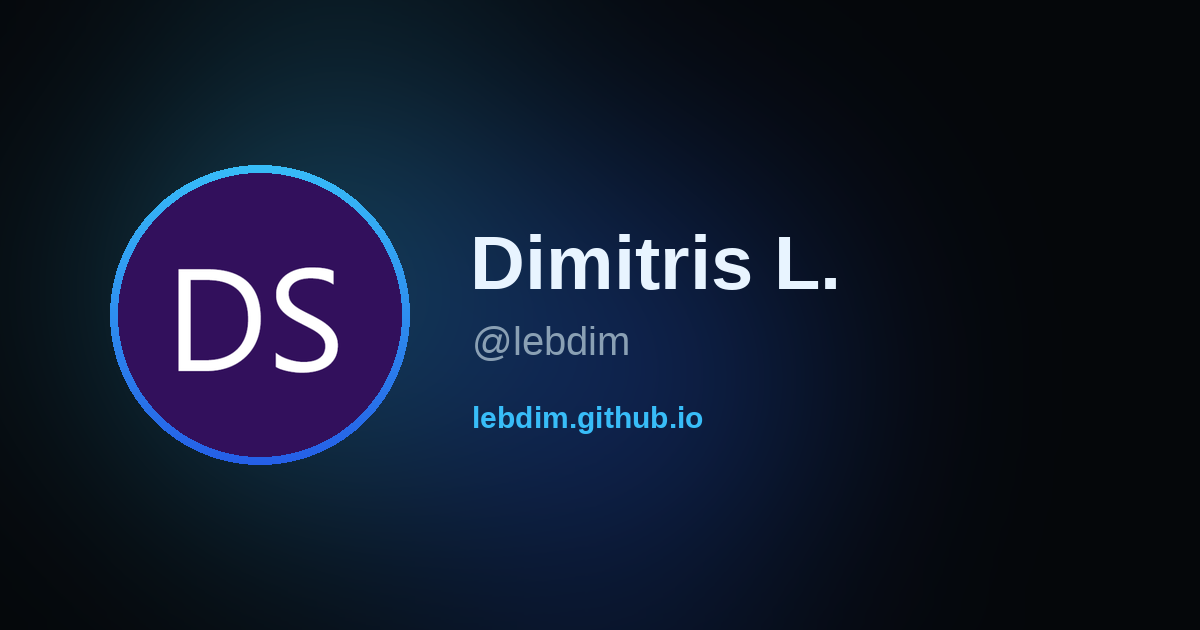
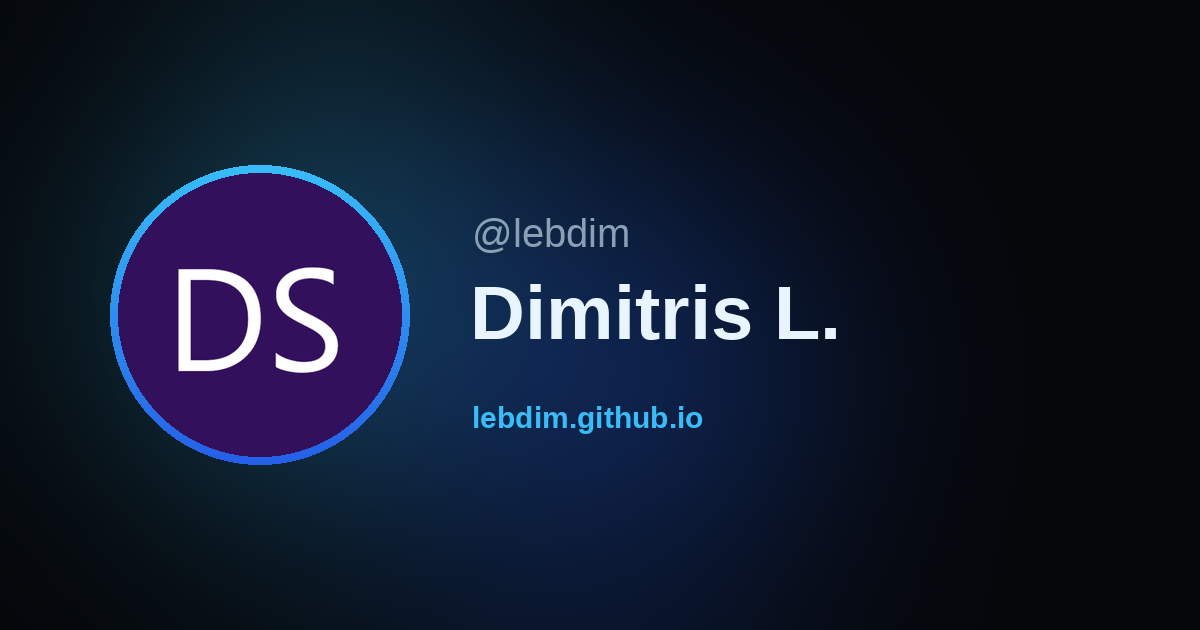
update page

Changed region(s): [[0.37, 0.3317, 0.7092, 0.573]]

diff --git a/index.html b/index.html
@@ -19,8 +19,8 @@
 <meta property="og:url" content="https://lebdim.github.io/">
 <meta property="og:locale" content="en_US">
 <meta property="profile:username" content="lebdim">
-<meta property="og:image" content="https://lebdim.github.io/og.png">
-<meta property="og:image:secure_url" content="https://lebdim.github.io/og.png">
+<meta property="og:image" content="https://lebdim.github.io/og.png?v=babc8d3623">
+<meta property="og:image:secure_url" content="https://lebdim.github.io/og.png?v=babc8d3623">
 <meta property="og:image:type" content="image/png">
 <meta property="og:image:width" content="1200">
 <meta property="og:image:height" content="630">
@@ -28,7 +28,7 @@
 <meta name="twitter:card" content="summary_large_image">
 <meta name="twitter:title" content="Dimitris L. (@lebdim)">
 <meta name="twitter:description" content="Software Engineer &amp; Automation Enthusiast">
-<meta name="twitter:image" content="https://lebdim.github.io/og.png">
+<meta name="twitter:image" content="https://lebdim.github.io/og.png?v=babc8d3623">
 <meta name="twitter:image:alt" content="Dimitris L. (@lebdim)">
 <style>
 :root{--bg:#05070a;--fg:#e8f4ff;--mut:#8aa0b4;--a:#38bdf8;--b:#2563eb;--card:rgba(255,255,255,.045);--line:rgba(255,255,255,.09)}
@@ -41,8 +41,8 @@ main{max-width:520px;margin:0 auto}
 header{text-align:center;padding-top:8px}
 .av{width:112px;height:112px;margin:0 auto 14px;border-radius:50%;padding:3px;background:linear-gradient(135deg,var(--a),var(--b));box-shadow:0 0 38px rgba(56,189,248,.35),0 0 90px rgba(37,99,235,.25)}
 .av img{display:block;width:100%;height:100%;border-radius:50%;background:#0b1118;border:3px solid var(--bg)}
-h1{margin:0;font-size:26px;letter-spacing:.02em}
-.handle{color:var(--mut);font-weight:500;margin-top:2px}
+h1{margin:2px 0 0;font-size:26px;letter-spacing:.02em}
+.handle{color:var(--mut);font-weight:500}
 .tag{margin:10px 0 0;font-weight:500}
 .bio{margin:8px auto 0;max-width:420px;color:var(--mut);font-weight:400;font-size:14px;white-space:pre-line;overflow-wrap:anywhere}
 .tools{display:flex;justify-content:center;gap:10px;margin:18px 0 6px}
@@ -69,8 +69,8 @@ dialog svg{width:220px;height:220px;border-radius:12px;display:block;margin:0 au
 <main>
 <header>
 <div class="av"><img src="avatar.png" alt="Dimitris L." width="112" height="112"></div>
-<h1>Dimitris L.</h1>
 <div class="handle">@lebdim</div>
+<h1>Dimitris L.</h1>
 <p class="bio">Software Engineer &amp;
 Automation Enthusiast</p>
 <div class="tools">
